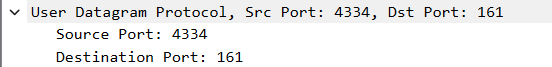
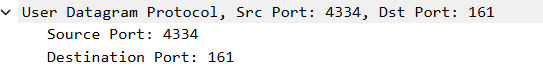
baruu

Changed region(s): [[0.0, 0.0, 0.9134, 1.0], [0.0884, 0.7463, 0.442, 0.9254], [0.0884, 0.4179, 0.3831, 0.597]]

diff --git a/week05/laporan.md b/week05/laporan.md
@@ -64,7 +64,9 @@ Sehingga total panjang header UDP adalah:
 
 ### 4.3 Analisis Field Length
 ![Capture Field Length](assets/assets3.png)
+<br>
 ![Capture Field Length](assets/assets4.png)
+<br>
 Field `Length` pada UDP menunjukkan total panjang segmen UDP, yaitu gabungan antara header UDP dan payload UDP.
 
 Pada paket yang diamati diperoleh:
@@ -121,21 +123,14 @@ Protocol: UDP (17)
 ```
 
 ### 4.7 Hubungan Port pada Paket Request dan Response
-![Capture Request Port](assets/assets6.png)
-![Capture Request Port](assets/assets7.png)
+
 Pada paket request diperoleh:
 
-```text
-Source Port: 4334
-Destination Port: 161
-```
+![Capture Request Port](assets/assets6.png)
 
 Sedangkan pada paket response diperoleh:
 
-```text
-Source Port: 161
-Destination Port: 4334
-```
+![Capture Request Port](assets/assets7.png)
 
 Hal ini menunjukkan bahwa source port dan destination port pada paket response merupakan kebalikan dari paket request. Destination port pada paket pertama menjadi source port pada paket balasan, sedangkan source port pada paket pertama menjadi destination port pada paket balasan.
 
